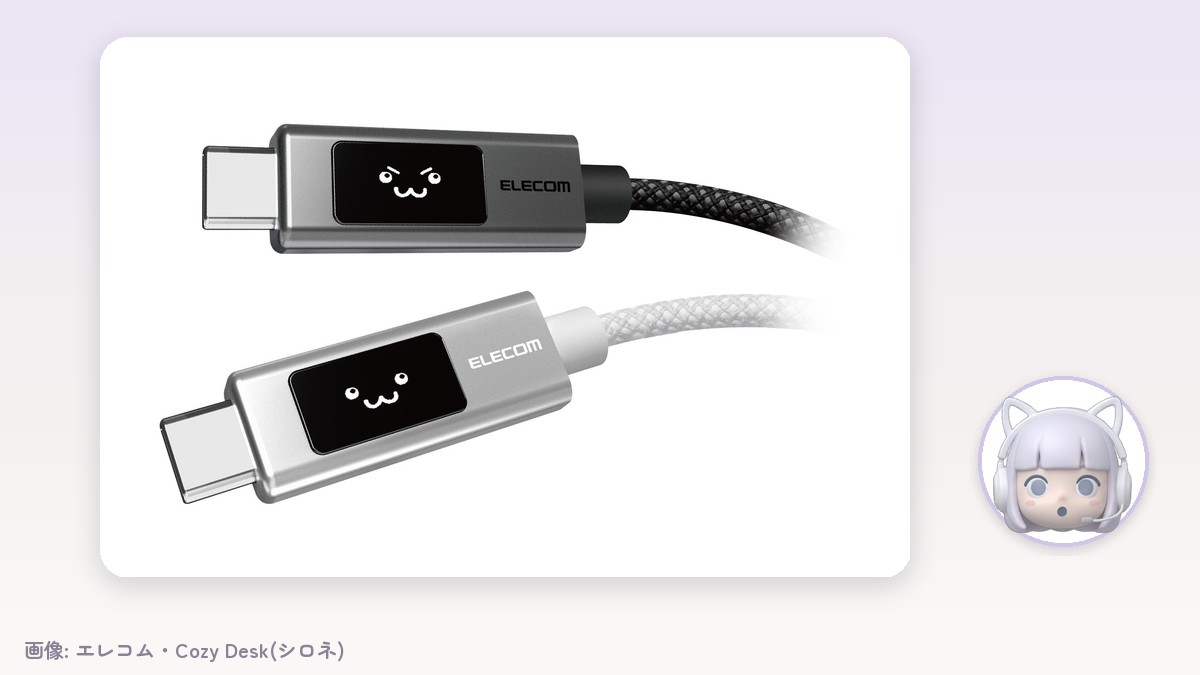
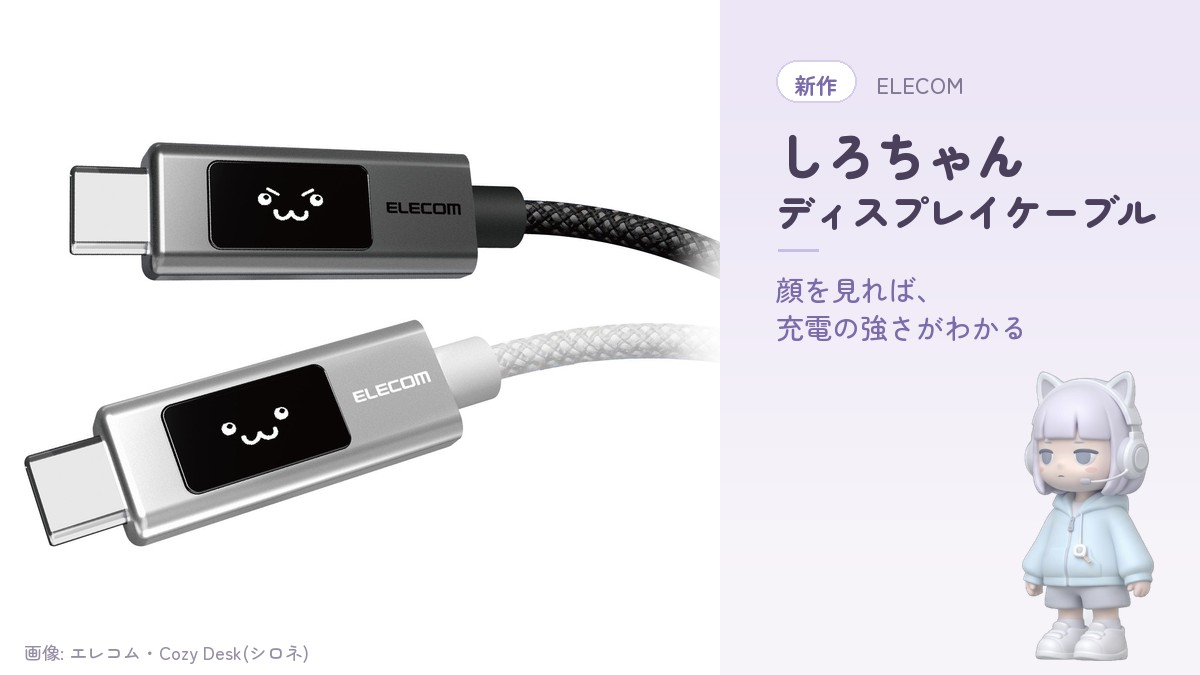
X の新作の画像を「左に写真・右に札とシロネ」の形に(本人が3案から選んだ)

Changed region(s): [[0.0, 0.0, 0.9558, 0.8711], [0.8017, 0.56, 0.9867, 0.9956], [0.0, 0.9333, 0.2775, 0.9956]]

diff --git a/scripts/x_new.py b/scripts/x_new.py
@@ -1,27 +1,39 @@
-"""X の「新作」の画像(1200x675)を作る。公式写真を切り抜いて大きく置き、右下にシロネの顔のスタンプ。
+r"""X の「新作」の画像(1200x675)を作る。2026-11-04 本人が3案から選んだ形(案①)。
 
-    python scripts/x_new.py --image <公式写真のURLかファイル> --out assets/x/<id>.jpg \
-        --credit "画像: ◯◯ 公式サイト・Cozy Desk(シロネ)" [--face wow] [--photo]
+  左 720px: 公式写真(白背景ならそのまま、まわりは写真の角の色で埋める)
+  右 480px: 淡いラベンダーの面に「新作」の札・メーカー名・物の名前・悩みを解決する一言、右下にシロネ
+  シロネは斜めの姿(docs/character/shirone/diag.png)で、左の写真の方を向く。**物に背を向けさせない**(本人)
 
---face  : wow(驚き)/ happy / calm / smug(docs/character/shirone/face_*.png)。物に合わせて選ぶ
---photo : 部屋の写真など切り抜けない写真のとき。切り抜かずに角丸の写真として置く
-決まりは docs/X_POSTING.md(背景は継ぎ目なし・文字は丸文字)。
+    python scripts/x_new.py --image <公式写真のURLかファイル> --out assets/x/<id>.jpg ^
+        --maker ELECOM --name "しろちゃん|ディスプレイケーブル" --hook "顔を見れば、|充電の強さがわかる" ^
+        --credit "画像: エレコム・Cozy Desk(シロネ)" [--zoom 0.85] [--fx 0.5]
+
+--name : 物の名前。「|」で2行に分けると、1行目が大きく2行目が少し小さい。長いと自動で縮む
+--hook : 悩み→解決の一言(docs/X_POSTING.md「いちばん大事なこと」)。「|」で2行まで
+--zoom : 写真の大きさ。1.0 で左の面いっぱい(はみ出た所は切れる)。物の端が切れるなら小さくする
+--fx   : 写真を左右どちらに寄せて切るか(0=左を見せる・1=右を見せる)
+文字は丸文字 Zen Maru Gothic(scripts/fonts)。
 """
 from __future__ import annotations
 
 import argparse
 import io
-import sys
 import urllib.request
 from pathlib import Path
 
-import numpy as np
-from PIL import Image, ImageDraw, ImageFilter
+from PIL import Image, ImageDraw, ImageFont
 
-sys.path.insert(0, str(Path(__file__).resolve().parent))
-from x_render import DESK, SH, H, W, base, credit, place  # noqa: E402
-
+ROOT = Path(__file__).resolve().parent.parent
+FD = ROOT / "scripts" / "fonts"
+SHIRONE = ROOT / "docs" / "character" / "shirone" / "diag.png"
 UA = "Mozilla/5.0 (Windows NT 10.0; Win64; x64) AppleWebKit/537.36 (KHTML, like Gecko) Chrome/130 Safari/537.36"
+W, H, LW = 1200, 675, 720
+INK, ACC, SUB, CREDIT = (74, 64, 92), (122, 107, 170), (130, 120, 148), (150, 142, 165)
+TX, TW = LW + 56, 1200 - LW - 56 - 40  # 右の面の文字の左端と幅
+
+
+def F(n: int, w: str = "Bold") -> ImageFont.FreeTypeFont:
+    return ImageFont.truetype(str(FD / f"ZenMaruGothic-{w}.ttf"), n)
 
 
 def load(src: str) -> Image.Image:
@@ -31,75 +43,76 @@ def load(src: str) -> Image.Image:
     return Image.open(src)
 
 
-def cutout(im: Image.Image) -> Image.Image:
-    """もう透明な背景ならそのまま。そうでなければ rembg で切り抜き、中の穴(白い部品など)は元の色で埋める"""
-    if im.mode in ("RGBA", "LA", "P"):
-        a = np.array(im.convert("RGBA"))[..., 3]
-        if (a < 10).mean() > 0.05:
-            o = im.convert("RGBA")
-            return o.crop(o.getbbox())
-    from rembg import new_session, remove
-    from scipy.ndimage import binary_fill_holes
-    rgb = im.convert("RGB")
-    pad = Image.new("RGB", (rgb.width + 80, rgb.height + 80), rgb.getpixel((2, 2)))
-    pad.paste(rgb, (40, 40))
-    out = np.array(remove(pad, session=new_session("isnet-general-use")))
-    al = out[..., 3].astype(int)
-    m = al >= 60
-    holes = binary_fill_holes(m) & ~m
-    src = np.array(pad)
-    out[..., :3] = np.where(holes[..., None], src, out[..., :3])
-    al = np.where(holes, 255, np.where(m, al, 0)).astype(np.uint8)
-    o = Image.fromarray(np.dstack([out[..., :3], al]))
-    return o.crop(o.getbbox())
+def panel() -> Image.Image:
+    a, b = (236, 230, 246), (248, 245, 250)
+    g = Image.new("RGB", (W - LW, H))
+    d = ImageDraw.Draw(g)
+    for y in range(H):
+        t = y / H
+        t = t * t * (3 - 2 * t)
+        d.line([(0, y), (W - LW, y)], fill=tuple(int(a[i] + (b[i] - a[i]) * t) for i in range(3)))
+    return g
 
 
-def stamp(im: Image.Image, face: str) -> None:
-    f0 = Image.open(f"{SH}face_{face}.png").convert("RGBA")
-    f0 = f0.crop(f0.getbbox())
-    D = 170
-    st = Image.new("RGBA", (D + 16, D + 16), (0, 0, 0, 0))
-    sd = ImageDraw.Draw(st)
-    sd.ellipse([8, 10, D + 8, D + 10], fill=(90, 80, 110, 50))
-    st = st.filter(ImageFilter.GaussianBlur(5))
-    sd = ImageDraw.Draw(st)
-    sd.ellipse([8, 6, D + 8, D + 6], fill=(255, 255, 255, 255), outline=(207, 198, 232, 255), width=4)
-    fw = int(D * 0.82)
-    f = f0.resize((fw, int(f0.height * fw / f0.width)), Image.LANCZOS)
-    st.alpha_composite(f, (8 + (D - fw) // 2, 6 + (D - f.height) // 2 + 4))
-    im.paste(st, (W - D - 60, DESK - D + 40), st)
+def fit(d: ImageDraw.ImageDraw, text: str, size: int, weight: str) -> ImageFont.FreeTypeFont:
+    while size > 20 and d.textlength(text, font=F(size, weight)) > TW:
+        size -= 2
+    return F(size, weight)
 
 
 def main() -> None:
     ap = argparse.ArgumentParser()
     ap.add_argument("--image", required=True)
     ap.add_argument("--out", required=True)
+    ap.add_argument("--maker", required=True)
+    ap.add_argument("--name", required=True)
+    ap.add_argument("--hook", required=True)
     ap.add_argument("--credit", required=True)
-    ap.add_argument("--face", default="wow")
-    ap.add_argument("--photo", action="store_true")
+    ap.add_argument("--zoom", type=float, default=1.0)
+    ap.add_argument("--fx", type=float, default=0.5)
+    ap.add_argument("--fy", type=float, default=0.5)
     a = ap.parse_args()
-    src = load(a.image)
-    im = base()
-    if a.photo:
-        ph = src.convert("RGB")
-        ph.thumbnail((860, 540), Image.LANCZOS)
-        mask = Image.new("L", ph.size, 0)
-        ImageDraw.Draw(mask).rounded_rectangle([0, 0, ph.width, ph.height], 28, fill=255)
-        x, y = (W - 230 - ph.width) // 2 + 20, (H - 60 - ph.height) // 2
-        sh = Image.new("RGBA", (W, H), (0, 0, 0, 0))
-        ImageDraw.Draw(sh).rounded_rectangle([x, y + 8, x + ph.width, y + ph.height + 8], 28, fill=(90, 80, 120, 50))
-        sh = sh.filter(ImageFilter.GaussianBlur(12))
-        im.paste(sh, (0, 0), sh)
-        im.paste(ph, (x, y), mask)
-    else:
-        obj = cutout(src)
-        # 横長の物(キーボード・タップ)は幅で、縦長の物は高さでそろえる
-        px = int(min(440, 820 * obj.height / obj.width))
-        place(im, obj, 540, px=px)
-    stamp(im, a.face)
-    credit(im, a.credit)
+
+    ph = load(a.image).convert("RGB")
+    bg = ph.getpixel((3, 3))
+    im = Image.new("RGBA", (W, H), (*bg, 255))
+    s = max(LW / ph.width, H / ph.height) * a.zoom
+    p = ph.resize((round(ph.width * s), round(ph.height * s)), Image.LANCZOS)
+    x = int((LW - p.width) * a.fx) if p.width > LW else (LW - p.width) // 2
+    y = int((H - p.height) * a.fy) if p.height > H else (H - p.height) // 2
+    left = Image.new("RGB", (LW, H), bg)
+    left.paste(p, (x, y))
+    im.paste(left, (0, 0))
+    im.paste(panel(), (LW, 0))
+
+    d = ImageDraw.Draw(im)
+    f = F(22)
+    tw = d.textlength("新作", font=f)
+    d.rounded_rectangle([TX, 60, TX + tw + 36, 102], 21, fill=(255, 255, 255), outline=(214, 206, 236), width=2)
+    d.text((TX + 18, 68), "新作", font=f, fill=ACC)
+    d.text((TX + tw + 56, 68), a.maker, font=F(22, "Medium"), fill=SUB)
+    y = 118
+    names = a.name.split("|")
+    for i, line in enumerate(names):
+        fnt = fit(d, line, 50 if i == 0 else 40, "Black")
+        d.text((TX, y), line, font=fnt, fill=INK)
+        y += fnt.size + 14
+    y += 16
+    d.line([(TX + 2, y), (TX + 42, y)], fill=(200, 190, 228), width=3)
+    y += 18
+    for line in a.hook.split("|")[:2]:
+        fnt = fit(d, line, 28, "Medium")
+        d.text((TX, y), line, font=fnt, fill=ACC)
+        y += 38
+
+    sh = Image.open(SHIRONE).convert("RGBA")  # 左(物の方)を向いている。左右反転しない
+    sh_h = min(290, H - y - 40)
+    sh = sh.resize((int(sh.width * sh_h / sh.height), sh_h), Image.LANCZOS)
+    im.alpha_composite(sh, (W - sh.width - 46, H - sh.height - 14))
+    d.text((24, H - 36), a.credit, font=F(18, "Medium"), fill=CREDIT)
+
     Path(a.out).parent.mkdir(parents=True, exist_ok=True)
-    im.save(a.out, quality=90)
+    im.convert("RGB").save(a.out, quality=90)
     print(a.out)
 
 

diff --git a/docs/X_POSTING.md b/docs/X_POSTING.md
@@ -21,7 +21,7 @@
 
 X で白・淡色デスク界隈を調べた結果(`notes/desk-gadgets/x-competitors-2026-11-04.md`): 伸びているのはほぼ自分の机の実写で、実物を持たない Cozy Desk は実写では勝てない。大きさ比べの投稿は1件も無かった。
 
-1. **新作**(柱、本人の案): メーカーから出たばかりの新作。まだ誰も実物を持っていないので、公式写真だけでも条件が同じになる。発表・予約開始の当日に出す。毎朝の新作の記事と一緒に、下書きが自動で Cozy タブに届く(`docs/DAILY.md`、画像は `scripts/x_new.py`)。画像は公式写真＋隅にシロネの顔のスタンプ、本文はシロネの一言。リンク(記事)は返信、#PR
+1. **新作**(柱、本人の案): メーカーから出たばかりの新作。まだ誰も実物を持っていないので、公式写真だけでも条件が同じになる。発表・予約開始の当日に出す。毎朝の新作の記事と一緒に、下書きが自動で Cozy タブに届く(`docs/DAILY.md`、画像は `scripts/x_new.py`)。画像は左に公式写真・右に札とシロネ(下の「画像の作り方」)、本文はシロネの一言。リンク(記事)は返信、#PR
    - **色は基本白。かわいければ白にこだわらない**(本人)
    - **X では「日本で買えるか」を言わない**(本人)。「買えない」と書くと誰もサイトに来ない。日本で買えるかは記事の中で書く
 2. **デスクレシピ**(ときどき。本人が見本を見て「たまに投稿してもいい」): まとめ記事の物を縦長1枚(1200×1500)にカードで並べ、シロネが「買える場所は、返信のリンクから」。保存されやすい形。#PR、リンクは返信
@@ -52,7 +52,8 @@ X で白・淡色デスク界隈を調べた結果(`notes/desk-gadgets/x-competi
 ## 画像の作り方
 
 - 背景は継ぎ目のない撮影用の背景(上の淡いラベンダーから下の白へ)。壁と机の境目の線を入れない(本人が「不自然」と指摘)。部品は `scripts/x_render.py`
-- **写真＋隅のシロネ**(新作・切り口): 1200×675。物の公式写真を rembg(isnet-general-use)で切り抜いて大きく置き、右下にシロネの顔の丸いスタンプ(`docs/character/shirone/face_*.png`、表情は物に合わせて選ぶ)
+- **新作**: 1200×675。左720pxに公式写真、右に淡いラベンダーの面で「新作」の札・メーカー名・物の名前・悩みを解決する一言、右下に斜めの姿のシロネ(`docs/character/shirone/diag.png`)。**シロネは写真の方を向く。物に背を向けさせない**(11/4 本人が3案から選んだ。前の「写真＋隅の顔のスタンプ」は「おしゃれじゃない・シロネが浮いている」と言われてやめた)。`scripts/x_new.py`
+- **切り口**(まとめの物を1つずつ): 1200×675。写真＋隅のシロネの顔のスタンプ(新作の形に寄せるかは本人に聞く)
 - **デスクレシピ**: 1200×1500。上に看板の言葉(小さい一言＋題)、2列のカードに写真・番号・名前・特徴2行、下にシロネと「買える場所は、返信のリンクから」
 - **大きさ比べ**(おまけ): 物は本体だけで高さをそろえる(コードは入れない)。シロネは設定画の斜めの姿(目の透けは元の色で埋める)を背丈10cmで
 - 文字はサイトの見出しと同じ丸文字 Zen Maru Gothic(`scripts/fonts`、OFL。題は Black、ほかは Bold、小さい説明は Medium)。游ゴシックは使わない(11/4 本人「フォントもかわいく」)

diff --git a/docs/DAILY.md b/docs/DAILY.md
@@ -75,13 +75,16 @@ D:\MyDocument\ClaudeApp\shorts\gadget-shorts\.venv\Scripts\python.exe scripts\ad
 
 ## 3. X の下書きの画像
 
+形は 11/4 に本人が3案から選んだ「左に公式写真・右に札とシロネ」(案①)。シロネは写真の方を向く(物に背を向けさせない)。
+
 ```bash
-python scripts/x_new.py --image "<公式写真のURL>" --out assets/x/<今日の日付>-<名前>.jpg --credit "画像: ◯◯ 公式サイト・Cozy Desk(シロネ)" --face wow
+python scripts/x_new.py --image "<公式写真のURLかファイル>" --out assets/x/<今日の日付>-<名前>.jpg --maker <メーカー名> --name "<物の名前。|で2行>" --hook "<悩みを解決する一言。|で2行>" --credit "画像: ◯◯ 公式サイト・Cozy Desk(シロネ)"
 ```
 
-- 白背景の製品写真なら切り抜いて大きく置く。部屋の写真や、ケーブルのように写真の端で物が消えている写真(切り抜くと切れ端がちぎれて見える)は `--photo` をつける
-- 顔は物に合わせて選ぶ: wow(驚き)・happy・calm・smug
-- できた画像を開いて見る。切り抜きが欠けていたり、文字が重なっていたりしたら、別の写真で作り直す
+- 写真は、物全体がよく見える公式写真を選ぶ(白背景の製品写真がいちばん合う)
+- `--hook` は X の本文と同じ「悩み → 解決」を短く(例: 「顔を見れば、|充電の強さがわかる」)。機能の名前を並べない
+- 物の端が切れるときは `--zoom 0.85` のように小さくし、`--fx`(0〜1)で左右の寄せ方を変える
+- できた画像を開いて見る。物が切れていたり、文字があふれていたりしたら、写真や言葉を変えて作り直す
 - 公式サイトがプログラムからの取得を断る写真(403)は、ブラウザで開いて画面から取り、そのファイルを `--image` に渡す。リファラーの偽装はしない
 
 ## 4. 確かめて公開する
